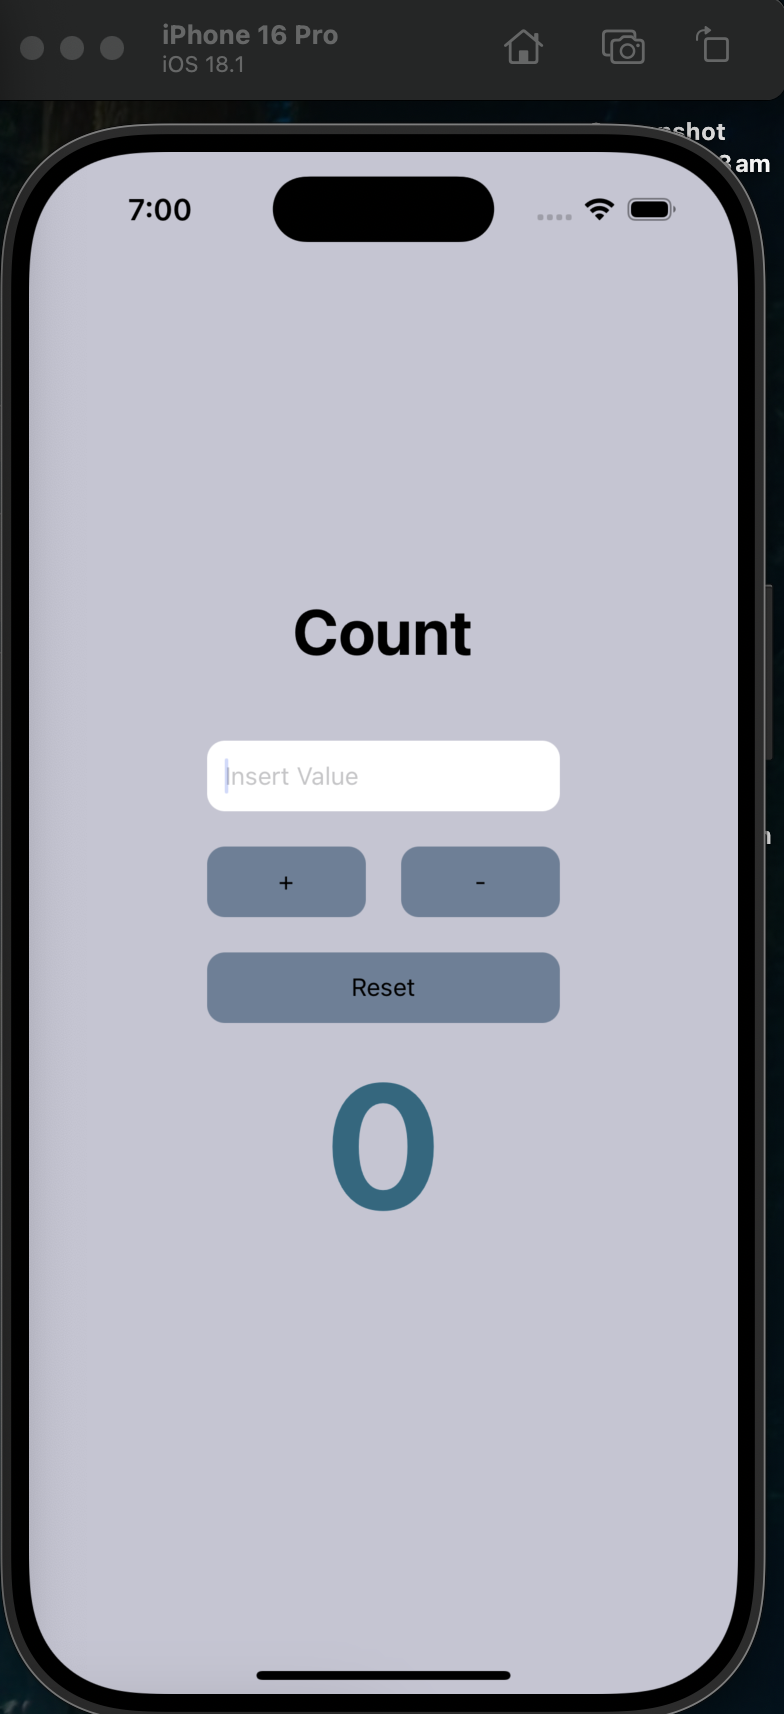
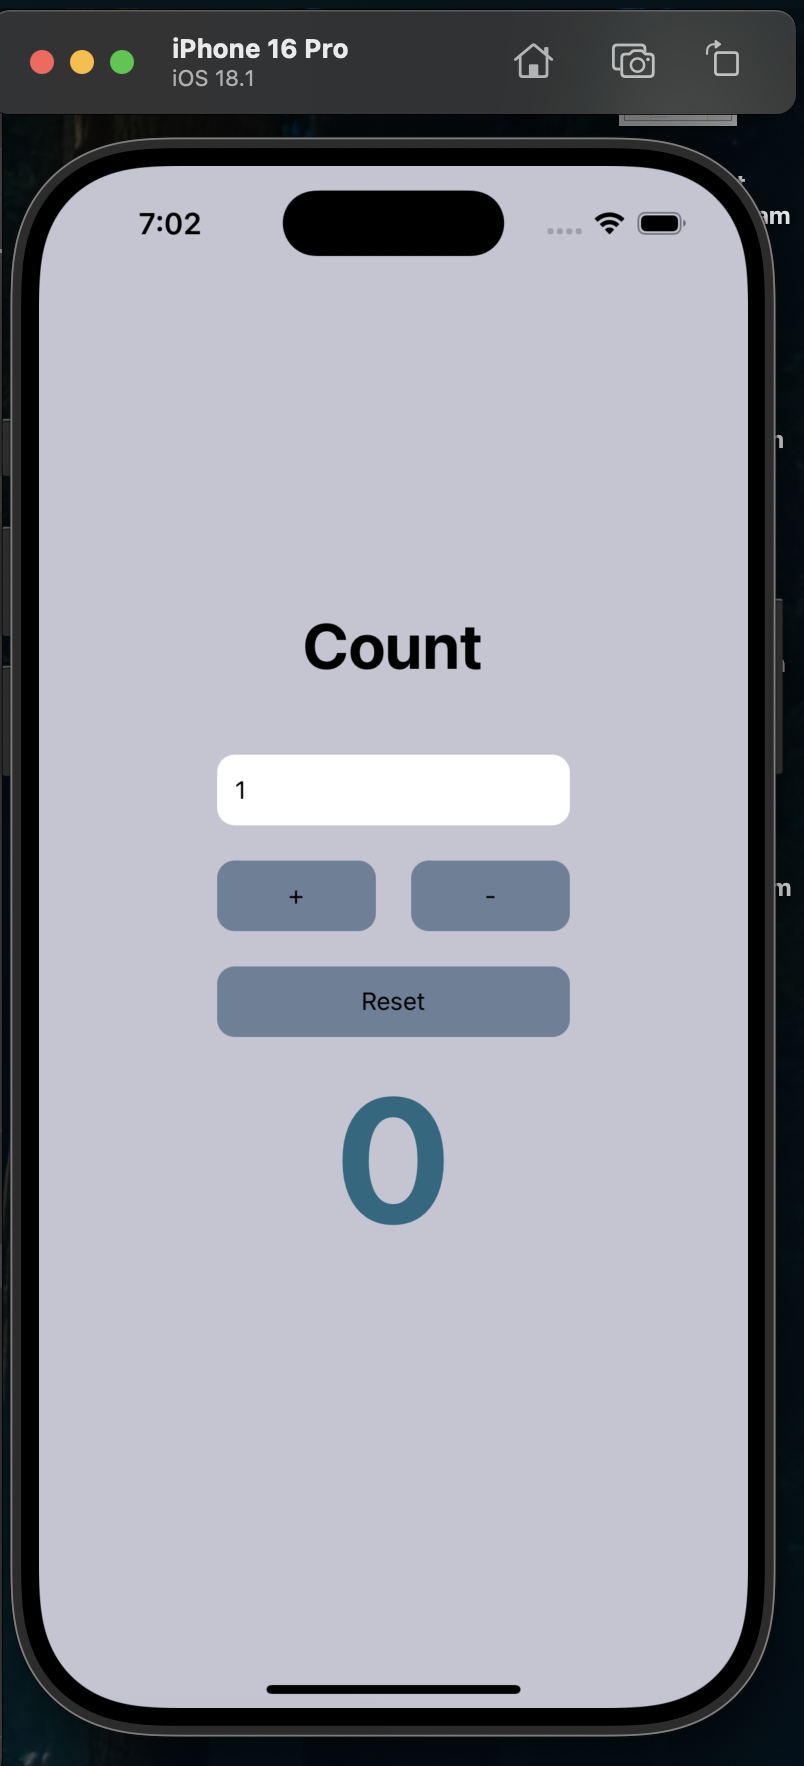
fix bug reset wasnt showing the number 1 inside the input. Also, update read me

diff --git a/counterApp-reactNative/app/screens/CounterScreen.js b/counterApp-reactNative/app/screens/CounterScreen.js
@@ -44,7 +44,7 @@ function CounterScreen(props) {
                         <Text>-</Text>
                     </View>
                 </TouchableHighlight>
-                <TouchableHighlight onPress={() => { setCounter(0), setInputValue(1) }}>
+                <TouchableHighlight onPress={() => { setCounter(0), setInputValue("1") }}>
                     <View style={[styles.button, styles.buttonReset]}>
                         <Text>Reset</Text>
                     </View>
